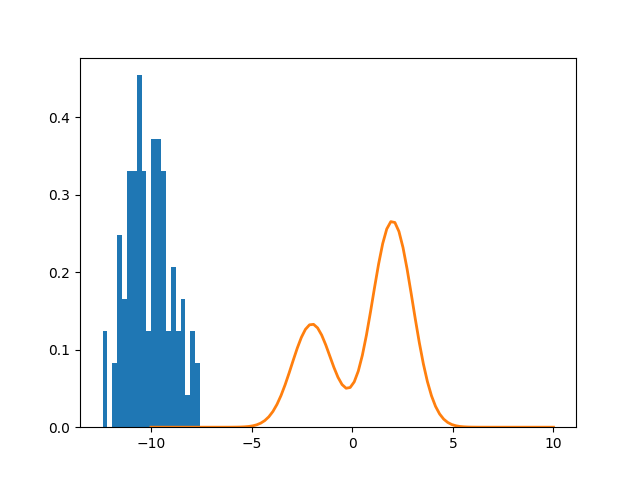
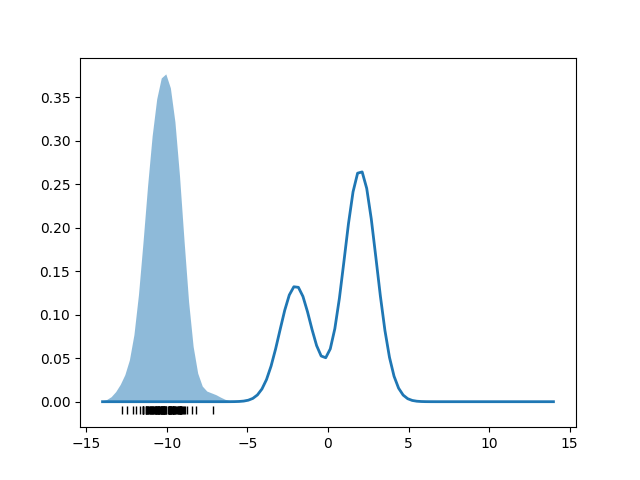
Add KDE to figure 1

diff --git a/original-code/Toy-Examples/mixture1d.py b/original-code/Toy-Examples/mixture1d.py
@@ -5,6 +5,7 @@ import math
 import os
 import matplotlib.pyplot as plt
 from scipy.stats import norm
+from sklearn.neighbors import KernelDensity
 
 class Mixture1d:
     def __init__(self, w1, mu1, sigma1, w2, mu2, sigma2):
@@ -31,7 +32,7 @@ class Mixture1d:
         return vfunc(points)
 
     def plotpdf(self):
-        x = np.linspace(-10, 10, 100)
+        x = np.linspace(-14, 14, 100)
         curve_0 = norm.pdf(x, self.mu1, self.sigma1)
         curve_1 = norm.pdf(x, self.mu2, self.sigma2)
         curve = self.w1 * curve_0 + self.w2 * curve_1
@@ -52,7 +53,7 @@ if __name__ == '__main__':
 
     histo_bin_count = 20
     step_size = 0.25
-    check_iters = [50, 75, 100, 150, 500]
+    check_iters = [0, 50, 75, 100, 150, 500]
 
     def save_on_check_iter_func(iter_idx, theta):
         if iter_idx in check_iters:
@@ -61,8 +62,17 @@ if __name__ == '__main__':
 
             # plot
             plt.clf()
-            iter_hist = plt.hist(theta, histo_bin_count, density=True, stacked=True)
             model.plotpdf()
+            # taken from https://jakevdp.github.io/PythonDataScienceHandbook/05.13-kernel-density-estimation.html
+            # instantiate and fit the KDE model
+            kde = KernelDensity(bandwidth=0.5, kernel='gaussian')
+            kde.fit(theta)
+            theta_mesh = np.linspace(-14, 14, 100)
+            # score_samples returns the log of the probability density
+            logprob = kde.score_samples(theta_mesh[:, None])
+
+            plt.fill_between(theta_mesh, np.exp(logprob), alpha=0.5)
+            plt.plot(theta, np.full_like(theta, -0.01), '|k', markeredgewidth=1)
 
             plt.savefig(f"./mixture1d_iter_{iter_idx}.png")
             # plt.show()
